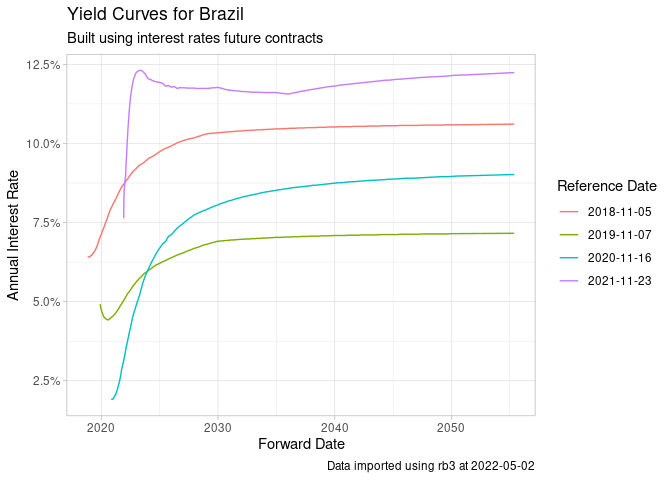
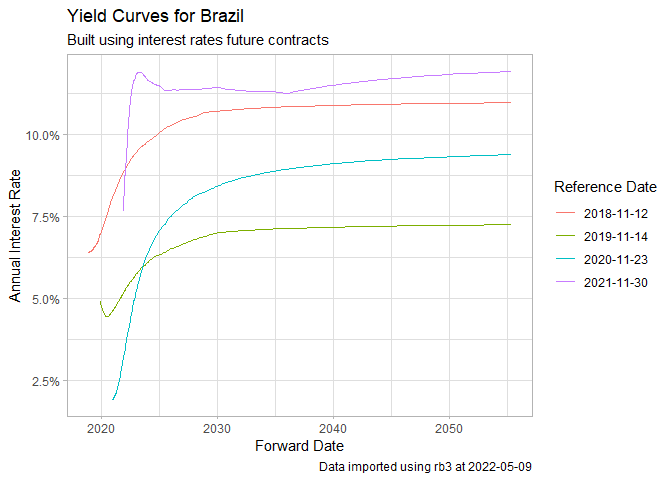
Updated README

diff --git a/README.md b/README.md
@@ -50,16 +50,10 @@ Download and use historical yield curve data with `yc_get`.
 
 ``` r
 library(rb3)
-#> Loading required package: bizdays
-#> 
-#> Attaching package: 'bizdays'
-#> The following object is masked from 'package:stats':
-#> 
-#>     offset
 library(ggplot2)
 library(stringr)
 
-df_yc <- yc_get(
+df_yc <- yc_mget(
   first_date = Sys.Date() - 255 * 5,
   last_date = Sys.Date(),
   by = 255
@@ -99,26 +93,26 @@ Get settlement future prices with `futures_get`.
 library(rb3)
 library(dplyr)
 
-df <- futures_get(
+df <- futures_mget(
   first_date = "2022-04-01",
   last_date = "2022-04-29",
   by = 5
 )
 
 glimpse(
-  df |> 
+  df |>
     filter(commodity == "DI1")
 )
 #> Rows: 153
 #> Columns: 8
-#> $ refdate          <date> 2022-04-01, 2022-04-01, 2022-04-01, 2022-04-01, 2022…
-#> $ commodity        <chr> "DI1", "DI1", "DI1", "DI1", "DI1", "DI1", "DI1", "DI1…
-#> $ maturity_code    <chr> "J22", "K22", "M22", "N22", "Q22", "U22", "V22", "X22…
-#> $ symbol           <chr> "DI1J22", "DI1K22", "DI1M22", "DI1N22", "DI1Q22", "DI…
-#> $ price_previous   <dbl> 99999.99, 99172.50, 98159.27, 97181.87, 96199.14, 951…
-#> $ price            <dbl> 100000.00, 99172.31, 98160.23, 97185.43, 96210.42, 95…
-#> $ change           <dbl> 0.01, -0.19, 0.96, 3.56, 11.28, 21.61, 34.93, 48.85, …
-#> $ settlement_value <dbl> 0.01, 0.19, 0.96, 3.56, 11.28, 21.61, 34.93, 48.85, 5…
+#> $ refdate          <date> 2022-04-01, 2022-04-01, 2022-04-01, 2022-04-01, 2022-04-01, 2022-04-01, 2022~
+#> $ commodity        <chr> "DI1", "DI1", "DI1", "DI1", "DI1", "DI1", "DI1", "DI1", "DI1", "DI1", "DI1", ~
+#> $ maturity_code    <chr> "J22", "K22", "M22", "N22", "Q22", "U22", "V22", "X22", "Z22", "F23", "G23", ~
+#> $ symbol           <chr> "DI1J22", "DI1K22", "DI1M22", "DI1N22", "DI1Q22", "DI1U22", "DI1V22", "DI1X22~
+#> $ price_previous   <dbl> 99999.99, 99172.50, 98159.27, 97181.87, 96199.14, 95137.64, 94174.49, 93265.2~
+#> $ price            <dbl> 100000.00, 99172.31, 98160.23, 97185.43, 96210.42, 95159.25, 94209.42, 93314.~
+#> $ change           <dbl> 0.01, -0.19, 0.96, 3.56, 11.28, 21.61, 34.93, 48.85, 57.32, 67.40, 78.83, 88.~
+#> $ settlement_value <dbl> 0.01, 0.19, 0.96, 3.56, 11.28, 21.61, 34.93, 48.85, 57.32, 67.40, 78.83, 88.8~
 ```
 
 ### Equity data
@@ -143,21 +137,21 @@ ch <- cotahist_get(date, "daily")
 glimpse(
   cotahist_equity_get(ch)
 )
-#> Rows: 378
+#> Rows: 367
 #> Columns: 13
-#> $ refdate               <date> 2022-04-29, 2022-04-29, 2022-04-29, 2022-04-29,…
-#> $ symbol                <chr> "AALR3", "ABCB4", "ABEV3", "AERI3", "AESB3", "AG…
-#> $ open                  <dbl> 19.69, 16.81, 14.85, 5.12, 11.25, 34.34, 9.20, 1…
-#> $ high                  <dbl> 19.77, 16.81, 15.00, 5.18, 11.28, 34.70, 9.80, 1…
-#> $ low                   <dbl> 19.32, 15.80, 14.52, 4.88, 11.01, 33.80, 9.11, 1…
-#> $ close                 <dbl> 19.41, 15.80, 14.52, 4.88, 11.05, 33.99, 9.80, 1…
-#> $ average               <dbl> 19.48, 16.09, 14.72, 5.00, 11.09, 34.22, 9.59, 1…
-#> $ best_bid              <dbl> 19.41, 15.80, 14.52, 4.88, 11.03, 33.99, 9.13, 1…
-#> $ best_ask              <dbl> 19.44, 16.00, 14.60, 4.89, 11.05, 34.00, 9.80, 1…
-#> $ volume                <dbl> 14055007, 28379427, 384931858, 11565634, 3820062…
-#> $ traded_contracts      <int> 721500, 1763100, 26145100, 2309900, 3443700, 110…
-#> $ transactions_quantity <int> 2050, 6273, 23420, 6249, 8291, 4766, 349, 303, 2…
-#> $ distribution_id       <int> 102, 140, 125, 101, 102, 112, 100, 102, 231, 231…
+#> $ refdate               <date> 2022-05-06, 2022-05-06, 2022-05-06, 2022-05-06, 2022-05-06, 2022-05-06,~
+#> $ symbol                <chr> "AALR3", "ABCB4", "ABEV3", "AERI3", "AESB3", "AFLT3", "AGRO3", "AGXY3", ~
+#> $ open                  <dbl> 19.70, 15.79, 13.73, 4.45, 10.70, 9.74, 33.70, 9.12, 13.50, 18.16, 19.70~
+#> $ high                  <dbl> 19.84, 16.21, 13.83, 4.53, 10.98, 9.89, 33.80, 9.23, 13.59, 19.49, 21.59~
+#> $ low                   <dbl> 19.55, 15.59, 13.53, 4.31, 10.70, 9.68, 32.85, 8.90, 12.90, 18.16, 19.56~
+#> $ close                 <dbl> 19.74, 15.79, 13.53, 4.32, 10.71, 9.68, 33.30, 9.00, 13.32, 19.01, 21.23~
+#> $ average               <dbl> 19.71, 15.84, 13.64, 4.42, 10.79, 9.78, 33.32, 9.09, 13.16, 18.91, 20.99~
+#> $ best_bid              <dbl> 19.68, 15.78, 13.53, 4.32, 10.70, 9.17, 33.29, 9.00, 13.00, 19.00, 21.23~
+#> $ best_ask              <dbl> 19.74, 15.79, 13.55, 4.36, 10.71, 9.88, 33.30, 9.14, 13.32, 19.49, 21.28~
+#> $ volume                <dbl> 4762731, 10863637, 299963173, 6516785, 15847229, 4894, 20330650, 497554,~
+#> $ traded_contracts      <int> 241600, 685600, 21978900, 1471300, 1468400, 500, 610100, 54700, 88200, 5~
+#> $ transactions_quantity <int> 1227, 4594, 29374, 6159, 5941, 5, 3627, 360, 596, 21, 34300, 46, 11553, ~
+#> $ distribution_id       <int> 102, 140, 125, 101, 102, 119, 112, 101, 103, 231, 231, 101, 102, 113, 11~
 ```
 
 Funds data
@@ -166,21 +160,21 @@ Funds data
 glimpse(
   cotahist_funds_get(ch)
 )
-#> Rows: 366
+#> Rows: 358
 #> Columns: 13
-#> $ refdate               <date> 2022-04-29, 2022-04-29, 2022-04-29, 2022-04-29,…
-#> $ symbol                <chr> "BZLI11", "ABCP11", "AFHI11", "AFOF11", "AIEC11"…
-#> $ open                  <dbl> 16.90, 74.40, 99.22, 93.88, 80.45, 930.00, 115.4…
-#> $ high                  <dbl> 16.90, 74.90, 99.22, 94.35, 80.95, 930.00, 116.0…
-#> $ low                   <dbl> 16.90, 73.23, 98.56, 92.50, 79.54, 930.00, 115.4…
-#> $ close                 <dbl> 16.90, 73.57, 98.98, 93.40, 80.20, 930.00, 116.0…
-#> $ average               <dbl> 16.90, 73.61, 98.86, 93.24, 79.99, 928.42, 115.8…
-#> $ best_bid              <dbl> 16.90, 73.29, 98.95, 92.78, 80.19, 930.00, 116.0…
-#> $ best_ask              <dbl> 17.70, 73.57, 98.98, 93.40, 80.20, 985.98, 116.0…
-#> $ volume                <dbl> 135.20, 151215.31, 1000055.72, 205332.83, 114626…
-#> $ traded_contracts      <int> 8, 2054, 10115, 2202, 14330, 6, 5691, 908, 24029…
-#> $ transactions_quantity <int> 2, 205, 709, 87, 3001, 5, 737, 54, 3965, 288, 2,…
-#> $ distribution_id       <int> 100, 313, 113, 113, 119, 250, 154, 104, 125, 130…
+#> $ refdate               <date> 2022-05-06, 2022-05-06, 2022-05-06, 2022-05-06, 2022-05-06, 2022-05-06,~
+#> $ symbol                <chr> "ABCP11", "AFHI11", "AFOF11", "AIEC11", "ALMI11", "ALZR11", "APTO11", "A~
+#> $ open                  <dbl> 75.00, 98.95, 90.38, 79.79, 950.00, 115.90, 10.50, 108.06, 95.69, 93.98,~
+#> $ high                  <dbl> 75.76, 99.19, 90.38, 79.79, 950.00, 116.35, 10.79, 108.44, 96.46, 93.98,~
+#> $ low                   <dbl> 73.92, 98.80, 88.39, 77.84, 930.50, 115.50, 10.35, 107.33, 95.52, 93.98,~
+#> $ close                 <dbl> 75.00, 98.90, 89.15, 78.78, 931.00, 116.30, 10.50, 107.99, 95.90, 93.98,~
+#> $ average               <dbl> 74.53, 98.87, 89.19, 78.55, 940.37, 116.10, 10.58, 108.03, 95.73, 93.98,~
+#> $ best_bid              <dbl> 74.99, 98.89, 89.15, 78.09, 922.00, 116.25, 10.40, 107.99, 95.71, 88.91,~
+#> $ best_ask              <dbl> 75.00, 98.90, 89.99, 78.78, 933.00, 116.30, 10.50, 108.00, 95.80, 93.99,~
+#> $ volume                <dbl> 83995.91, 881581.38, 36391.76, 920055.31, 3761.50, 869599.35, 17947.07, ~
+#> $ traded_contracts      <int> 1127, 8916, 408, 11712, 4, 7490, 1696, 28733, 1504, 1, 5103, 254, 935, 1~
+#> $ transactions_quantity <int> 195, 669, 70, 4213, 4, 1069, 78, 8626, 168, 1, 571, 82, 54, 1199, 70, 51~
+#> $ distribution_id       <int> 314, 113, 113, 120, 250, 154, 105, 125, 131, 136, 137, 302, 116, 214, 22~
 ```
 
 BDRs data
@@ -189,21 +183,21 @@ BDRs data
 glimpse(
   cotahist_bdrs_get(ch)
 )
-#> Rows: 523
+#> Rows: 515
 #> Columns: 13
-#> $ refdate               <date> 2022-04-29, 2022-04-29, 2022-04-29, 2022-04-29,…
-#> $ symbol                <chr> "A1AP34", "A1BB34", "A1CR34", "A1DM34", "A1EG34"…
-#> $ open                  <dbl> 61.51, 37.36, 59.61, 446.66, 25.50, 100.89, 301.…
-#> $ high                  <dbl> 61.51, 37.53, 59.61, 446.66, 25.61, 100.89, 301.…
-#> $ low                   <dbl> 61.51, 36.89, 58.71, 443.04, 25.50, 100.89, 301.…
-#> $ close                 <dbl> 61.51, 36.89, 58.71, 443.04, 25.61, 100.89, 301.…
-#> $ average               <dbl> 61.51, 36.89, 58.71, 444.83, 25.60, 100.89, 301.…
-#> $ best_bid              <dbl> 61.51, 36.89, 58.71, 0.00, 25.50, 100.89, 0.00, …
-#> $ best_ask              <dbl> 70.10, 58.50, 0.00, 0.00, 25.61, 0.00, 303.25, 3…
-#> $ volume                <dbl> 44287.20, 185762.84, 42917.91, 1779.34, 3175.20,…
-#> $ traded_contracts      <int> 720, 5035, 731, 4, 124, 660, 1, 340, 1590, 61, 9…
-#> $ transactions_quantity <int> 1, 6, 2, 4, 3, 1, 1, 1, 1, 2, 5, 2, 1, 2, 184, 3…
-#> $ distribution_id       <int> 110, 102, 106, 109, 102, 110, 109, 106, 101, 109…
+#> $ refdate               <date> 2022-05-06, 2022-05-06, 2022-05-06, 2022-05-06, 2022-05-06, 2022-05-06,~
+#> $ symbol                <chr> "A1AP34", "A1BB34", "A1BM34", "A1CR34", "A1DM34", "A1EE34", "A1EG34", "A~
+#> $ open                  <dbl> 63.57, 37.28, 321.73, 62.40, 453.15, 234.36, 25.71, 295.81, 253.75, 29.9~
+#> $ high                  <dbl> 63.57, 37.28, 321.73, 64.75, 453.15, 235.69, 25.71, 297.90, 256.00, 30.0~
+#> $ low                   <dbl> 63.57, 36.61, 321.73, 62.40, 453.15, 233.22, 25.39, 295.50, 253.25, 29.7~
+#> $ close                 <dbl> 63.57, 36.61, 321.73, 64.75, 453.15, 233.85, 25.39, 296.06, 255.00, 29.7~
+#> $ average               <dbl> 63.57, 36.83, 321.73, 64.72, 453.15, 234.33, 25.55, 295.91, 254.73, 30.0~
+#> $ best_bid              <dbl> 63.71, 0.00, 0.00, 63.60, 450.14, 0.00, 0.00, 0.00, 0.00, 29.17, 34.75, ~
+#> $ best_ask              <dbl> 0.00, 58.50, 0.00, 0.00, 0.00, 0.00, 27.45, 0.00, 0.00, 40.65, 0.00, 124~
+#> $ volume                <dbl> 254.28, 110.50, 321.73, 5112.90, 453.15, 4686.60, 102.20, 337047.14, 458~
+#> $ traded_contracts      <int> 4, 3, 1, 79, 1, 20, 4, 1139, 18, 109815, 301, 241, 4, 7192, 20, 34, 31, ~
+#> $ transactions_quantity <int> 1, 2, 1, 2, 1, 20, 2, 27, 18, 5, 2, 12, 4, 123, 2, 5, 1, 1, 1, 1, 1, 5, ~
+#> $ distribution_id       <int> 110, 102, 100, 106, 109, 109, 102, 110, 109, 106, 101, 109, 109, 100, 11~
 ```
 
 Equity options
@@ -212,20 +206,20 @@ Equity options
 glimpse(
   cotahist_equity_options_get(ch)
 )
-#> Rows: 4,794
+#> Rows: 5,143
 #> Columns: 14
-#> $ refdate               <date> 2022-04-29, 2022-04-29, 2022-04-29, 2022-04-29,…
-#> $ symbol                <chr> "ABEVE135", "ABEVE162", "ABEVE140", "ABEVE167", …
-#> $ type                  <fct> Call, Call, Call, Call, Call, Call, Call, Put, C…
-#> $ strike                <dbl> 13.54, 16.29, 14.04, 16.79, 15.04, 13.04, 27.00,…
-#> $ maturity_date         <date> 2022-05-20, 2022-05-20, 2022-05-20, 2022-05-20,…
-#> $ open                  <dbl> 1.46, 0.06, 1.07, 0.04, 0.37, 1.98, 0.10, 1.80, …
-#> $ high                  <dbl> 1.55, 0.07, 1.19, 0.04, 0.46, 1.98, 0.10, 1.80, …
-#> $ low                   <dbl> 1.46, 0.05, 0.92, 0.03, 0.28, 1.84, 0.10, 1.80, …
-#> $ close                 <dbl> 1.48, 0.05, 0.92, 0.03, 0.30, 1.84, 0.10, 1.80, …
-#> $ average               <dbl> 1.53, 0.05, 1.07, 0.03, 0.37, 1.91, 0.10, 1.80, …
-#> $ volume                <dbl> 323814, 412, 12437, 185, 796102, 3820, 30, 10980…
-#> $ traded_contracts      <int> 210700, 7800, 11600, 5300, 2102300, 2000, 300, 6…
-#> $ transactions_quantity <int> 33, 8, 11, 9, 266, 2, 1, 1, 2, 1, 3, 17, 3, 4, 5…
-#> $ distribution_id       <int> 125, 125, 125, 125, 125, 125, 101, 101, 101, 101…
+#> $ refdate               <date> 2022-05-06, 2022-05-06, 2022-05-06, 2022-05-06, 2022-05-06, 2022-05-06,~
+#> $ symbol                <chr> "ABCBR160", "ABEVA900", "ABEVB15", "ABEVD100", "ABEVD150", "ABEVD220", "~
+#> $ type                  <fct> Put, Call, Call, Call, Call, Call, Call, Call, Call, Call, Call, Call, C~
+#> $ strike                <dbl> 15.73, 9.00, 14.47, 9.47, 15.00, 21.47, 10.04, 13.04, 13.29, 13.54, 13.7~
+#> $ maturity_date         <date> 2022-06-17, 2024-01-19, 2023-02-17, 2023-04-20, 2024-04-19, 2023-04-20,~
+#> $ open                  <dbl> 0.45, 6.45, 1.80, 5.49, 3.18, 0.32, 3.73, 0.83, 0.72, 0.47, 0.33, 0.29, ~
+#> $ high                  <dbl> 0.45, 6.45, 1.80, 5.49, 3.18, 0.32, 3.73, 0.83, 0.72, 0.54, 0.39, 0.29, ~
+#> $ low                   <dbl> 0.45, 6.45, 1.80, 5.49, 3.18, 0.20, 3.73, 0.74, 0.56, 0.39, 0.26, 0.17, ~
+#> $ close                 <dbl> 0.45, 6.45, 1.80, 5.49, 3.18, 0.29, 3.73, 0.74, 0.56, 0.39, 0.28, 0.18, ~
+#> $ average               <dbl> 0.45, 6.45, 1.80, 5.49, 3.18, 0.30, 3.73, 0.81, 0.57, 0.43, 0.33, 0.22, ~
+#> $ volume                <dbl> 450, 645, 180, 549, 1590, 1669, 17158, 12002, 4692, 31011, 62069, 257970~
+#> $ traded_contracts      <int> 1000, 100, 100, 100, 500, 5400, 4600, 14800, 8200, 70700, 186000, 113340~
+#> $ transactions_quantity <int> 1, 1, 1, 1, 1, 12, 1, 5, 14, 97, 139, 264, 66, 268, 92, 223, 117, 67, 34~
+#> $ distribution_id       <int> 139, 125, 124, 124, 125, 124, 125, 125, 125, 125, 125, 125, 125, 125, 12~
 ```
